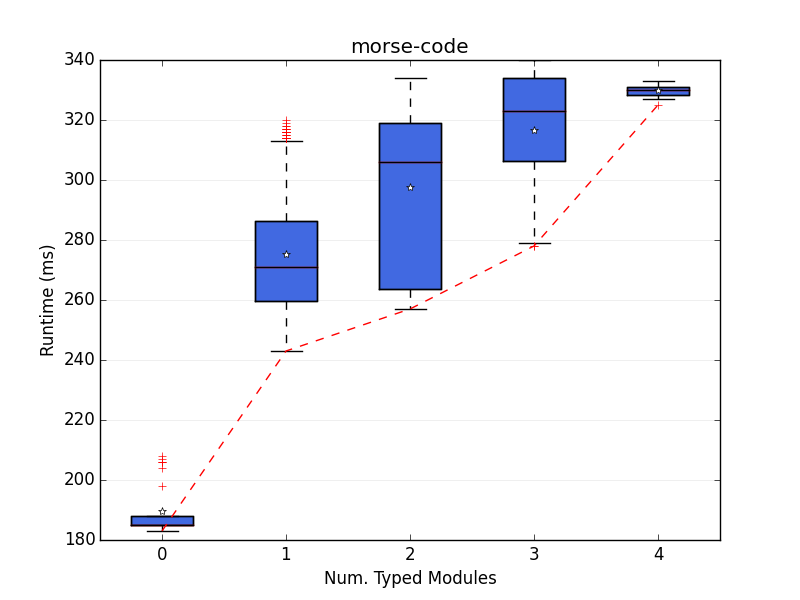
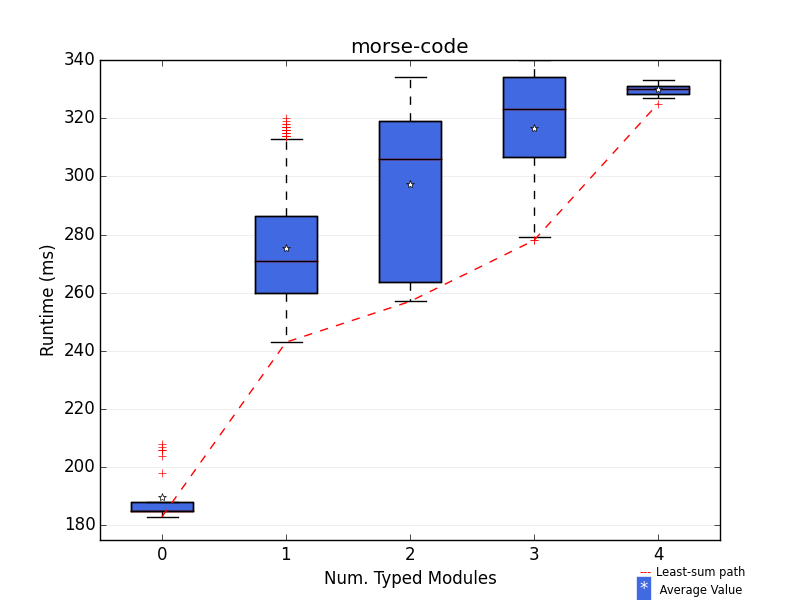
[viz] updated boxplot figures

diff --git a/tools/visualization/boxplot.py b/tools/visualization/boxplot.py
@@ -91,6 +91,14 @@ def main(fname):
     ax1.set_xlabel("Num. Typed Modules")
     ax1.set_ylabel("Runtime (ms)")
     ax1.set_xticklabels(range(0, len(path)))
+    ## Legend
+    # Reset y limit
+    ymin,ymax = ax1.get_ylim()
+    ax1.set_ylim(ymin-5, ymax)
+    plt.figtext(0.80, 0.04, "---", color='r', weight='roman', size='x-small')
+    plt.figtext(0.82, 0.04, "Least-sum path", color='k', weight='roman', size='x-small')
+    plt.figtext(0.80, 0.01, '*', color='white', backgroundcolor='royalblue',weight='roman', size='medium')
+    plt.figtext(0.82, 0.01, ' Average Value', color='black', weight='roman', size='x-small')
     ## Save & clear
     new_name = util.gen_name(fname, "boxplot", "png")
     plt.savefig(new_name)
